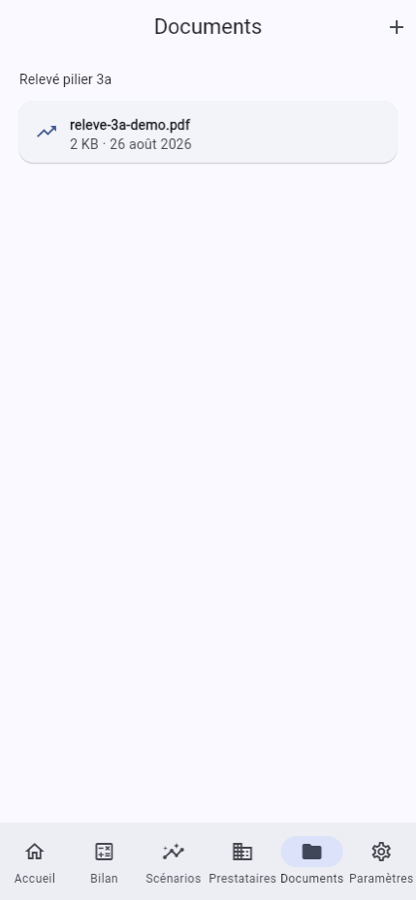
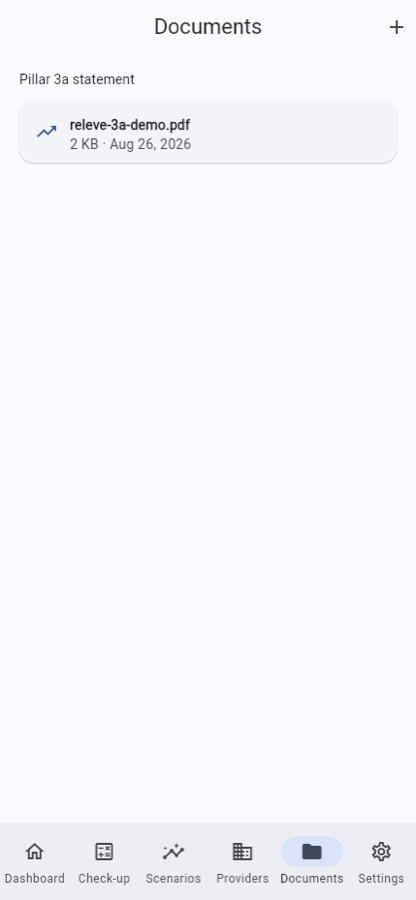
docs: English screenshots for README coherence + trilingual note

diff --git a/README.md b/README.md
@@ -12,6 +12,9 @@
 |---|---|---|---|
 | ![Dashboard](docs/screenshots/dashboard.png) | ![Check-up wizard](docs/screenshots/wizard.png) | ![Life scenarios](docs/screenshots/scenarios.png) | ![Document vault](docs/screenshots/documents.png) |
 
+<sub>Screenshots show the English UI; the app ships in French (default),
+German, and English — even server-computed labels follow `Accept-Language`.</sub>
+
 ## What it does
 
 - **Full retirement projection** — AHV/AVS + occupational pension (BVG/LPP) + pillar 3a, replacement rate, year-by-year projection, PDF export.
